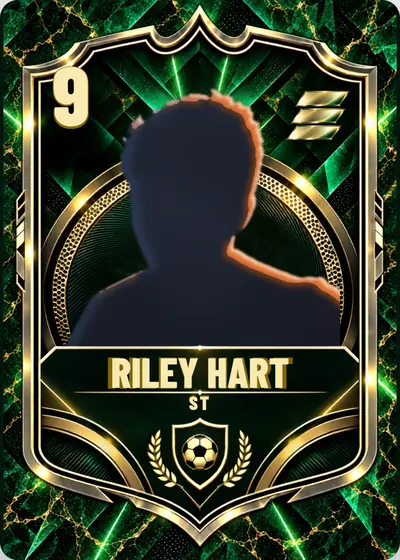
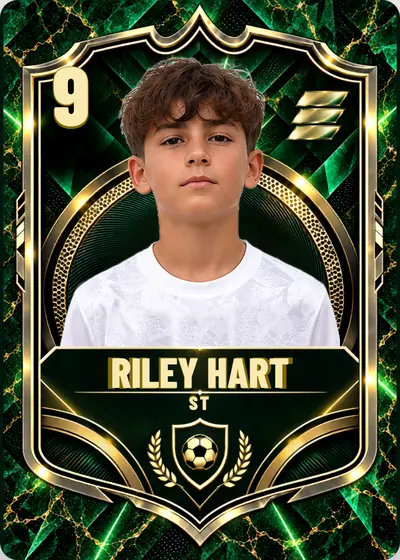
Hero cards: synthetic UK footballer in place of the silhouette
Blake's AI-generated player (text prompt only, no real child's photo),
with every kit marking removed before rendering: sponsor name and phone
number, club crest and name, maker's logo and shirt number. Rendered once
through the UK CardFace onto Royal, Crimson, Emerald and Glacier; 44-87 KB
WebP each.

Changed region(s): [[0.15, 0.0911, 0.87, 0.6375]]

diff --git a/src/components/marketing/HeroStage.tsx b/src/components/marketing/HeroStage.tsx
@@ -18,8 +18,9 @@ import { useEffect, useRef, useState, type CSSProperties } from 'react';
  *   screen, and has a visible pause button. With reduced motion it never
  *   auto-rotates; the design buttons still switch cards.
  *
- * The player is synthetic: an invented name and a stylised silhouette with no
- * face, badge or sponsor. No child's photo.
+ * The player is synthetic: AI-generated from a text prompt only (no photo of
+ * a real child), with an invented name, and every kit marking (sponsor,
+ * phone number, crest, maker's logo, number) removed.
  */
 const DESIGNS = [
   { id: 'royal', name: 'Royal Edition', accent: '#9d84ff' },
